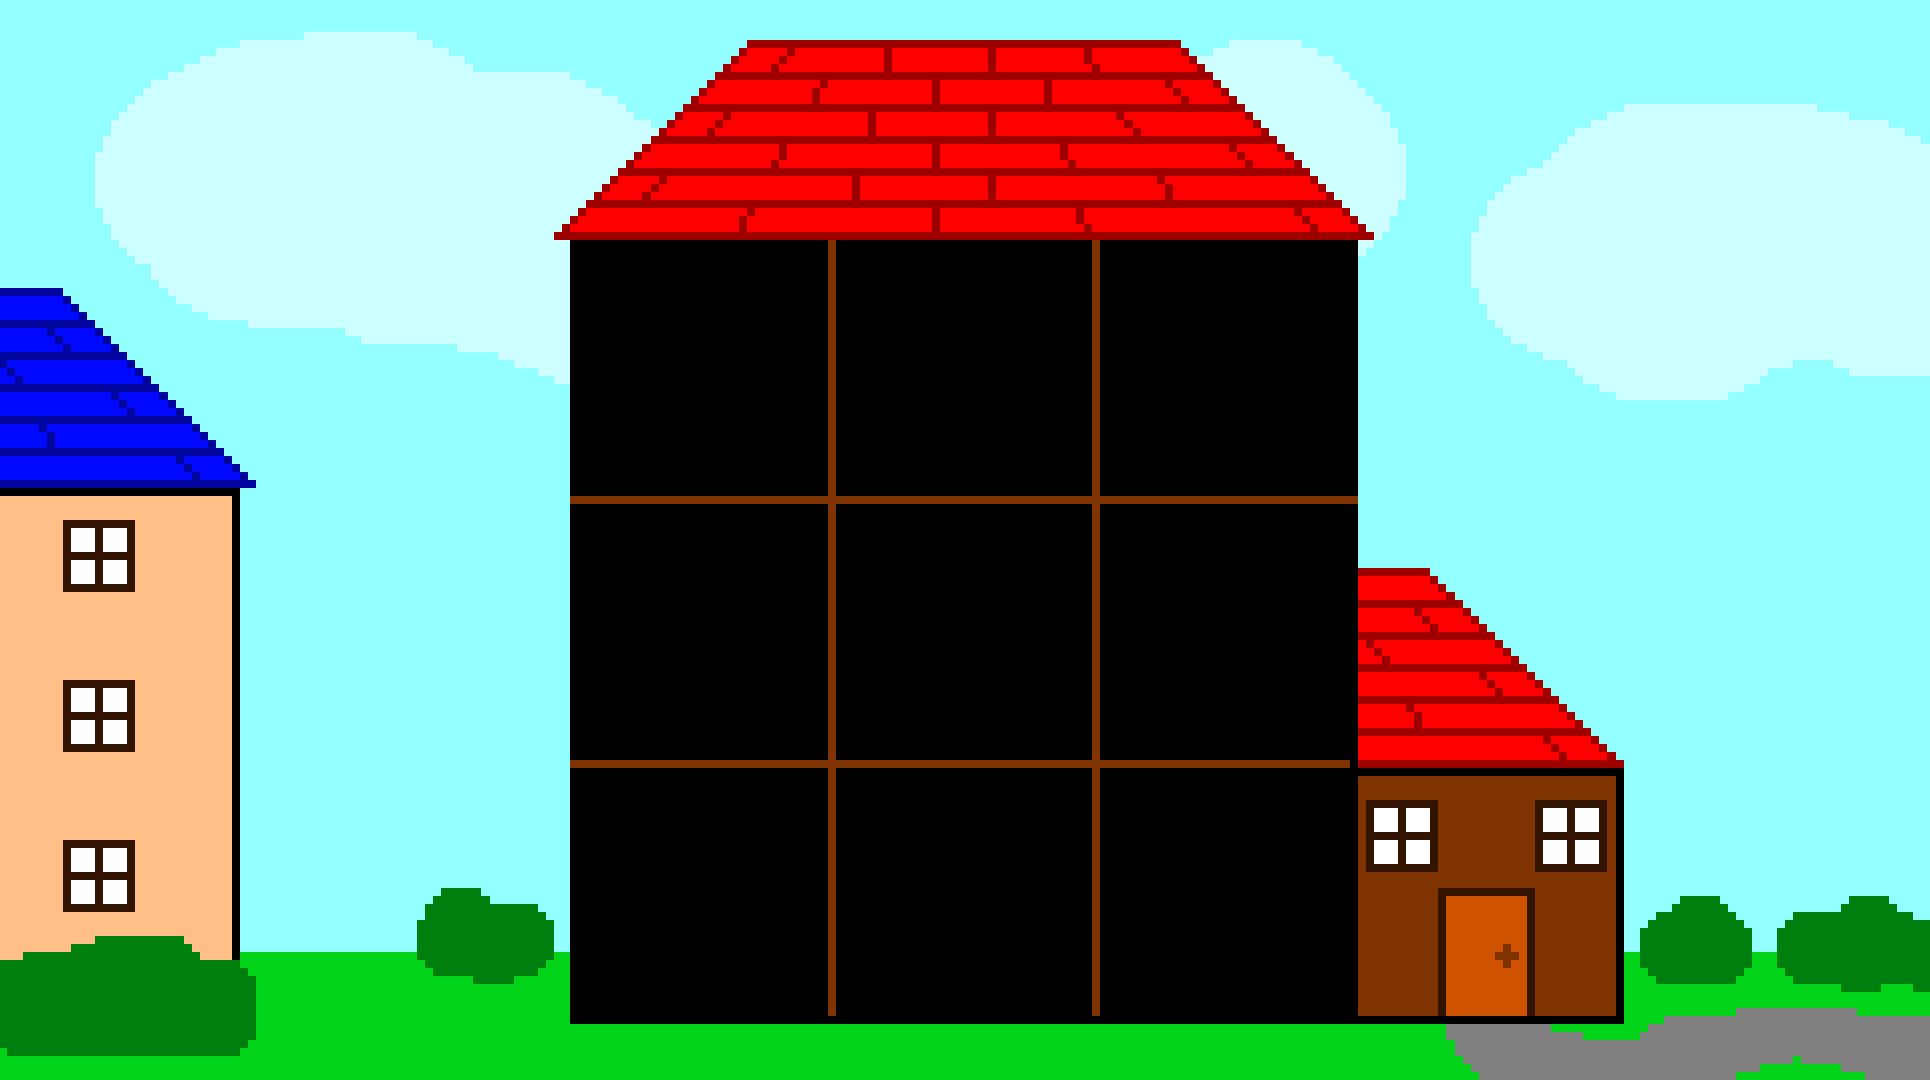
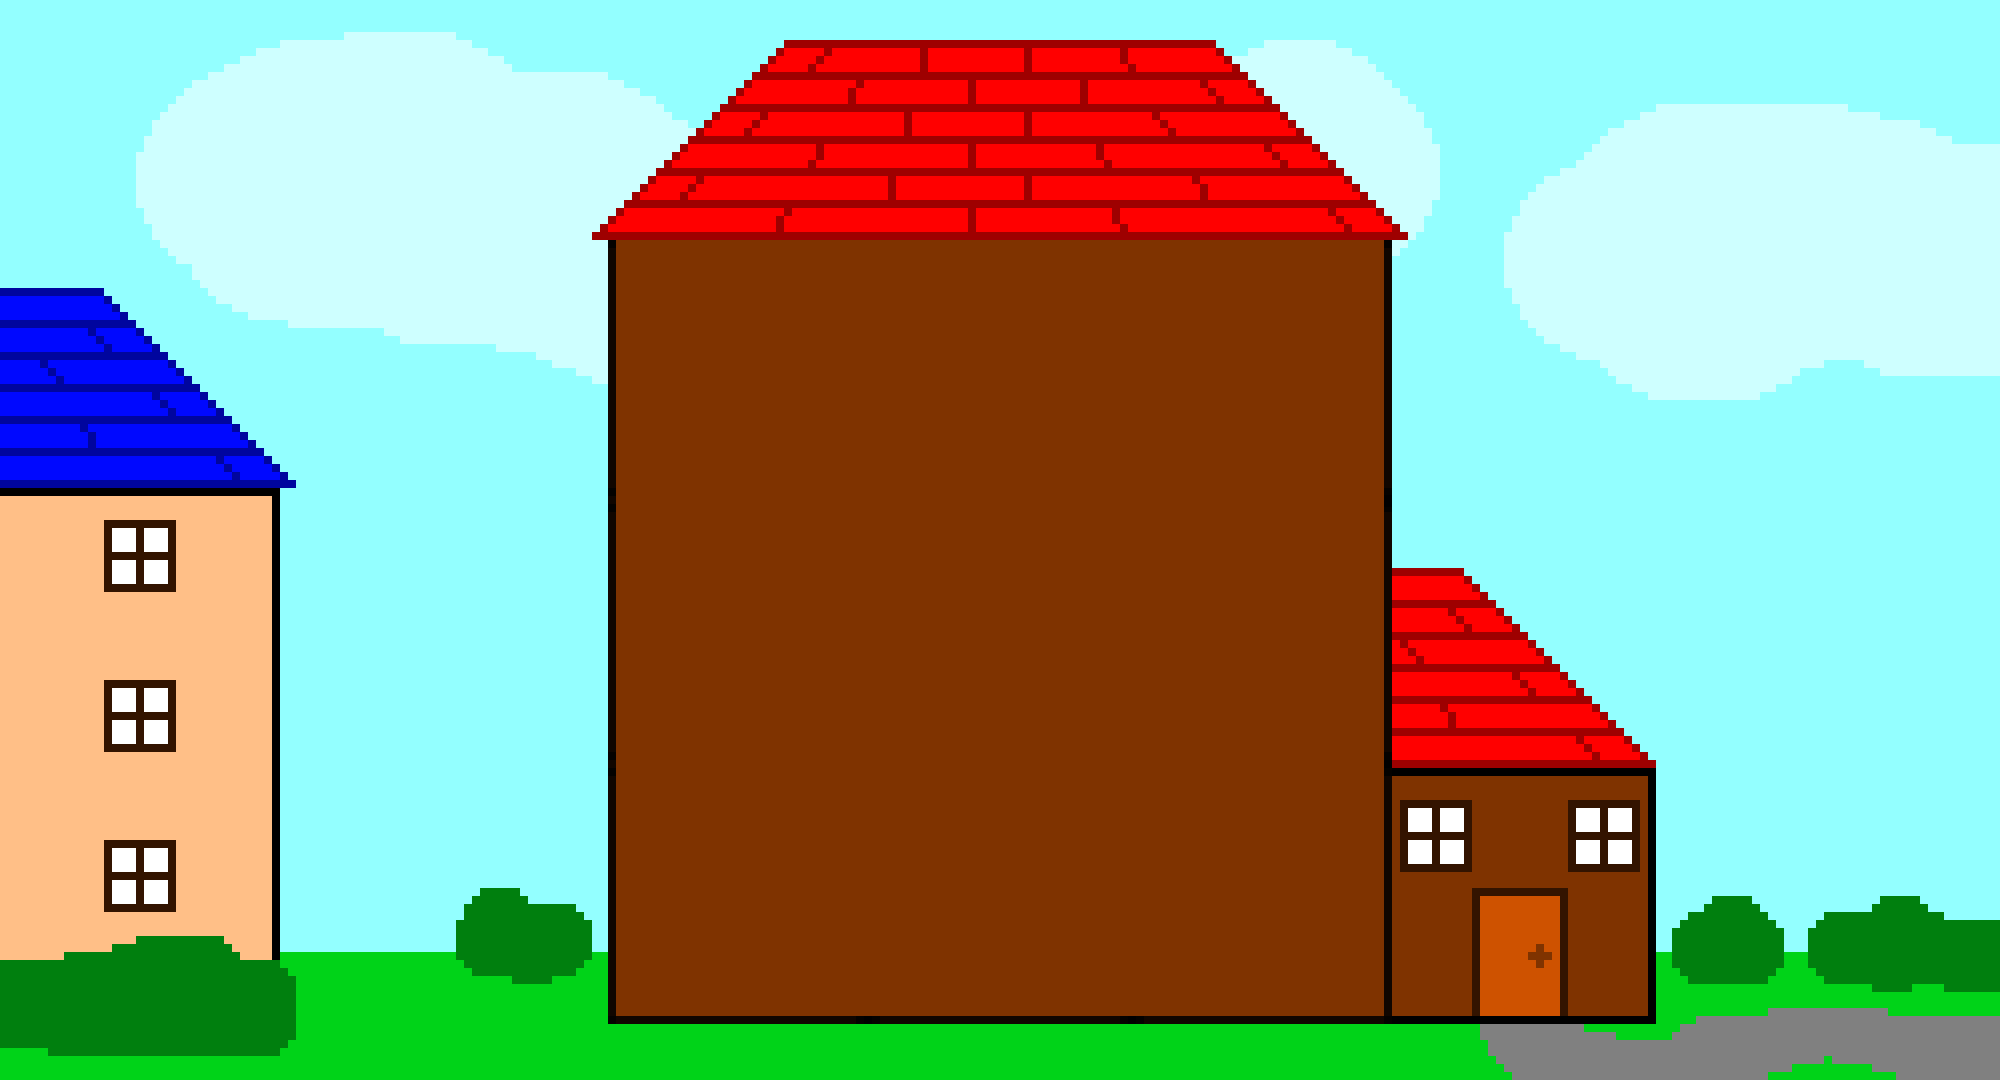
finished game scene 5

diff --git a/client/src/js/phaser/GameScene5.js b/client/src/js/phaser/GameScene5.js
@@ -1,7 +1,11 @@
 import * as Phaser from 'phaser';
+import { isTSAnyKeyword } from '@babel/types';
 
-var dx = [ 1, -1, 0, 0 ]; // move by x
-var dy = [ 0, 0, 1, -1 ]; // move by y
+// move by x
+var dx = [ 1, -1, 0, 0 ];
+
+// move by y
+var dy = [ 0, 0, 1, -1 ];
 
 // track all tiles for easy access
 var moves = 0;
@@ -14,11 +18,16 @@ for (let i = 0; i < boardSize; i++) {
 }
 
 // setup the game stage
-//var spaceBetweenTiles = 2;
-var gameWidth   = window.innerWidth;
-var gameHeight  = window.innerHeight; 
-//var width = boardSize * 227; //+ 2 * spaceBetweenTiles;
-//var height = boardSize * 227; //+ 2 * spaceBetweenTiles;
+var bgWidth = 2000;
+var bgHeight = 1080;
+var bgMoveX = 20;
+var bgMoveY = 10;
+var roomWidth = 227;
+var roomHeight = 227;
+var roomMoveX = 720;
+var roomMoveY = 356;
+var spaceBetweenRooms = 30;
+var gameOver = false;
 
 export default class GameScene5 extends Phaser.Scene {
   constructor() {
@@ -29,7 +38,8 @@ export default class GameScene5 extends Phaser.Scene {
   
   preload() {
     // load background
-    this.load.image('background', '../img/house0.png');
+    this.load.image('background0', '../img/house0.png');
+    this.load.image('background1', '../img/house1.png');
     
     // load on-off lights
     var roomNo = 1;
@@ -43,17 +53,19 @@ export default class GameScene5 extends Phaser.Scene {
   }
 
   create() {
-    background = this.add.image(965, 540, 'background');
-    background.scaleY = 1.0;
-    background.scaleX = 1.0;
+    if (boardSize === 2) {
+      background = this.add.image(bgWidth / 2 - bgMoveX, bgHeight / 2 - bgMoveY, 'background0');
+    } else if (boardSize === 3) {
+      background = this.add.image(bgWidth / 2 - bgMoveX, bgHeight / 2 - bgMoveY, 'background1');
+    }
 
   	// create the grid
     var countOff = 0;
    
   	for (var i = 0; i < boardSize; i++) {
   	  for (var j = 0; j < boardSize; j++) {
-  		  var x = i * 227; // + 692  + i * spaceBetweenTiles; 
-  		  var y = j * 227; // + 354  + j * spaceBetweenTiles;  
+  		  var x = i * roomWidth + roomMoveX + i * spaceBetweenRooms;
+  		  var y = j * roomHeight + roomMoveY + j * spaceBetweenRooms;
         var onOrOff = this.randomIntFromInterval(1, 2);
         
         if (onOrOff === 1) {
@@ -61,8 +73,6 @@ export default class GameScene5 extends Phaser.Scene {
         }
 
         var tile = this.add.sprite(x, y, (onOrOff === 1 ? 'on_' + i + j : 'off_' + i + j));
-        //tile.scaleX = 1.2;
-        //tile.scaleY = 1.2;
         
         // attach the pointer down event
         tile.setInteractive();
@@ -77,22 +87,22 @@ export default class GameScene5 extends Phaser.Scene {
   }
   
   update() {
+    if (gameOver) {
+      console.log("game over: " + gameOver);
+      //this.game.destroy();
+      gameOver = !gameOver;
+      this.game.react.props.toggleTransition();
+      this.game.destroy(true);
+    }
   }
-  
-  /*
-  toggle(tile, x, y) {
-    var newState = tile.texture.key === 'on_' + x + y ? 'off_' + x + y : 'on_' + x + y;
-    tile.setTexture(newState);
-  }
-  */
 
   randomIntFromInterval(min, max) {
     return Math.floor(Math.random() * (max - min + 1) + min);
   }
 
   onTileClicked() {
-    var x = Math.floor(this.x / 227);
-  	var y = Math.floor(this.y / 227);
+    var x = Math.floor((this.x - roomMoveX) / roomWidth);
+  	var y = Math.floor((this.y - roomMoveY) / roomHeight);
     
     moves++;
     let toggle = this.texture.key === 'on_' + x + y ? 'off_' + x + y : 'on_' + x + y;
@@ -107,41 +117,23 @@ export default class GameScene5 extends Phaser.Scene {
         tilesMatrix[nx][ny].setTexture(newState);
   	  }
   	}
-    //this.checkGameOver();
-    var gameOver = true;// = this.areAllStatesOff();
+    
+    var countOn = 0;
     for (let i = 0; i < boardSize; i++) {
   	  for (let j = 0; j < boardSize; j++) {
-  		  if (tilesMatrix[i][j].key !== 'off_' + i + j) {
-          gameOver = false;
-          break;
+  		  if (tilesMatrix[i][j].texture.key === 'on_' + i + j) {
+          countOn++;
   		  }
   	  }
-  	}
-    
-  	if(gameOver) {
-  	  //alert('Moves: ' + moves);
-  	}
-  }
+    }
 
-  /*
-  areAllStatesOff() {
-  	for (let i = 0; i < boardSize; i++) {
-  	  for (let j = 0; j < boardSize; j++) {
-  		  if (tilesMatrix[i][j].key !== 'off_' + i + j) {
-  	  	  return false;
-  		  }
-  	  }
-  	}
-  	return true;
+    if (countOn === 0) {
+      gameOver = true;
+    }
+    
+  	/*if(gameOver) {
+  	  this.game.destroy();
+      this.game.react.props.toggleTransition();
+  	}*/
   }
-  */
-  
-  /*
-  checkGameOver() {
-  	var gameOver = this.areAllStatesOff();  
-  	if(gameOver) {
-  	  alert('Moves: ' + moves);
-  	}
-  }
-  */
 }

diff --git a/client/src/js/components/Progress.js b/client/src/js/components/Progress.js
@@ -1,6 +1,7 @@
 import React, { Component } from 'react';
 import '../../css/Progress.css';
 import Transition from './Transition';
+import GameContainer from './GameContainer';
 import {Link} from "react-router-dom";
 import '../../img/lives5.png'
 
@@ -19,8 +20,11 @@ class Progress extends Component {
       app2: 0,
       app3: 0,
       app4: 0,
-      app5: 0
+      app5: 0,
+      transition: true
     };
+
+    this.toggleTransition = this.toggleTransition.bind(this);
   }
 
   // Fetch quote query result
@@ -38,8 +42,13 @@ class Progress extends Component {
     const rand = Math.floor(min + Math.random() * (max - min));
     return rand;
   }
+
+  toggleTransition() {
+    this.setState({transition: !this.state.transition});
+  }
   
   render() {
+    console.log("transition: " + this.state.transition);
     var style = {
       backgroundImage: 'url(../img/bg_transition_brown.jpg)'
     }
@@ -64,26 +73,25 @@ class Progress extends Component {
     
     return (
       <div className="Progress" style = {style}>
-        <p className = "Transition-Header">Level {this.state.level} </p>
-        <Transition hero = {this.state.hero} name = {this.state.name} life = {this.state.life} score = {this.state.score}/>
-        <div className = "Quote-Box">
-          <p className = "Quote-Content">{randQuote.content}</p>
-          <p className = "Quote-Person">{randQuote.person}</p>
-        </div>
-        <div className="Progress-Btn">
-          <Link className ="Progress-LeaderBoardBtn" style = {leaderboard} to = "/LeaderBoard">LEADERBOARD</Link>
-          <Link className ="Progress-RegenBtn" style = {regen} to = {{
-            pathname: "/Game",
-            state: {
-              app1: this.state.app1,
-              app2: this.state.app2,
-              app3: this.state.app3,
-              app4: this.state.app4,
-              app5: this.state.app5
-            }
-          }}>REGEN</Link>
-          <Link className ="Progress-BackBtn" to = "/">BACK TO MAIN</Link>
-        </div>
+
+        {(this.state.transition === true) ?
+        <div>
+          <p className = "Transition-Header">Level {this.state.level} </p>
+          <Transition hero = {this.state.hero} name = {this.state.name} life = {this.state.life} score = {this.state.score}/>
+          <div className = "Quote-Box">
+            <p className = "Quote-Content">{randQuote.content}</p>
+            <p className = "Quote-Person">{randQuote.person}</p>
+          </div>
+          <div className="Progress-Btn">
+            <Link className ="Progress-LeaderBoardBtn" style = {leaderboard} to = "/LeaderBoard">LEADERBOARD</Link>
+            <button className ="Progress-RegenBtn" style = {regen} onClick = {this.toggleTransition}>REGEN</button>
+            <Link className ="Progress-BackBtn" to = "/">BACK TO MAIN</Link>
+          </div>
+        </div> :
+        <GameContainer 
+          transition = {this.state.transition}
+          toggleTransition = {this.toggleTransition}
+        />}
       </div>
     );
   }

diff --git a/client/src/js/components/App.js b/client/src/js/components/App.js
@@ -6,15 +6,13 @@ import PlayBoxContainer from './PlayBoxContainer';
 import LeaderBoardBox from './LeaderBoardBox';
 import GameContainer from './GameContainer';
 import Progress from './Progress';
-
 import Credits from './Credits';
 
 
 class App extends Component {
   render() {
     var style = {
-      backgroundImage: 'url(../img/bg_river_forest.jpg)'
-      
+      backgroundImage: 'url(../img/bg_river_forest.jpg)' 
     }
 
     return (
@@ -22,7 +20,7 @@ class App extends Component {
         <Switch>
           <Route exact path = '/' component = {PlayBoxContainer} />
           <Route exact path = '/LeaderBoard' component = {LeaderBoardBox} />
-          <Route exact path = '/Game' component = {GameContainer} />
+          <Route exact path = '/GameContainer' component = {GameContainer} />
           <Route exact path = '/Transition' component = {Progress} />
           <Route exact path = '/' component = {Credits} />
           <Route render = {() =>  <h1> 404 Not Found </h1>}/>

diff --git a/client/src/js/phaser/GameScene1.js b/client/src/js/phaser/GameScene1.js
@@ -60,7 +60,7 @@ export default class GameScene1 extends Phaser.Scene {
   }
   
   victoryLoop(){
-    if(bulldozer.x < gameWidth * 2){                     
+    if(bulldozer.y < gameHeight * 2){                     
         angle += 0.25;
         bulldozer.angle += 30;
         bulldozer.x += 10;
@@ -70,6 +70,9 @@ export default class GameScene1 extends Phaser.Scene {
         });
 
     } else {
+      win = false;
+      this.game.react.props.toggleTransition();
+      this.game.destroy(true);
     }
 
   }
@@ -80,7 +83,9 @@ export default class GameScene1 extends Phaser.Scene {
         tree.x += 26;
         tree.y += (50 * Math.cos(0.1 * angle + 42) + 10);
     } else {
-
+      win = false;
+      this.game.react.props.toggleTransition();
+      this.game.destroy(true);
     }
   }
 

diff --git a/client/src/js/phaser/PhaserGame.js b/client/src/js/phaser/PhaserGame.js
@@ -12,13 +12,13 @@ import GameScene5 from './GameScene5';
 let scene = [GameScene1, GameScene2, GameScene3, GameScene4, GameScene5];
 let randomScene = Math.floor(Math.random() * scene.length);
 
-export default class Game extends Phaser.Game {
+export default class PhaserGame extends Phaser.Game {
 
   constructor(react) {
 
     const config = {
       type: Phaser.AUTO,
-      parent: 'gameContainer',
+      parent: 'GameContainer',
       width: window.innerWidth,
       height: window.innerHeight,
       /*render: {
@@ -32,7 +32,7 @@ export default class Game extends Phaser.Game {
             debug: false
         }
       },
-      scene:  GameScene5
+      scene: GameScene5
     }
     super(config);
     this.react = react;

diff --git a/client/src/js/components/GameContainer.js b/client/src/js/components/GameContainer.js
@@ -1,6 +1,6 @@
 import React, { Component } from 'react'
 import '../../css/GameContainer.css';
-import Game from '../phaser/Game';
+import PhaserGame from '../phaser/PhaserGame';
 
 class GameContainer extends Component {
   constructor(props) {
@@ -13,7 +13,7 @@ class GameContainer extends Component {
   }
 
   componentDidMount() {
-    this.game = new Game(this)
+    this.game = new PhaserGame(this)
 
   }
 
@@ -27,7 +27,7 @@ class GameContainer extends Component {
 
   render() {
     return (
-      <div className = "GameContainer" id = "gameContainer" />
+      <div className = "GameContainer" id = "GameContainer" />
     )
   }
 }
